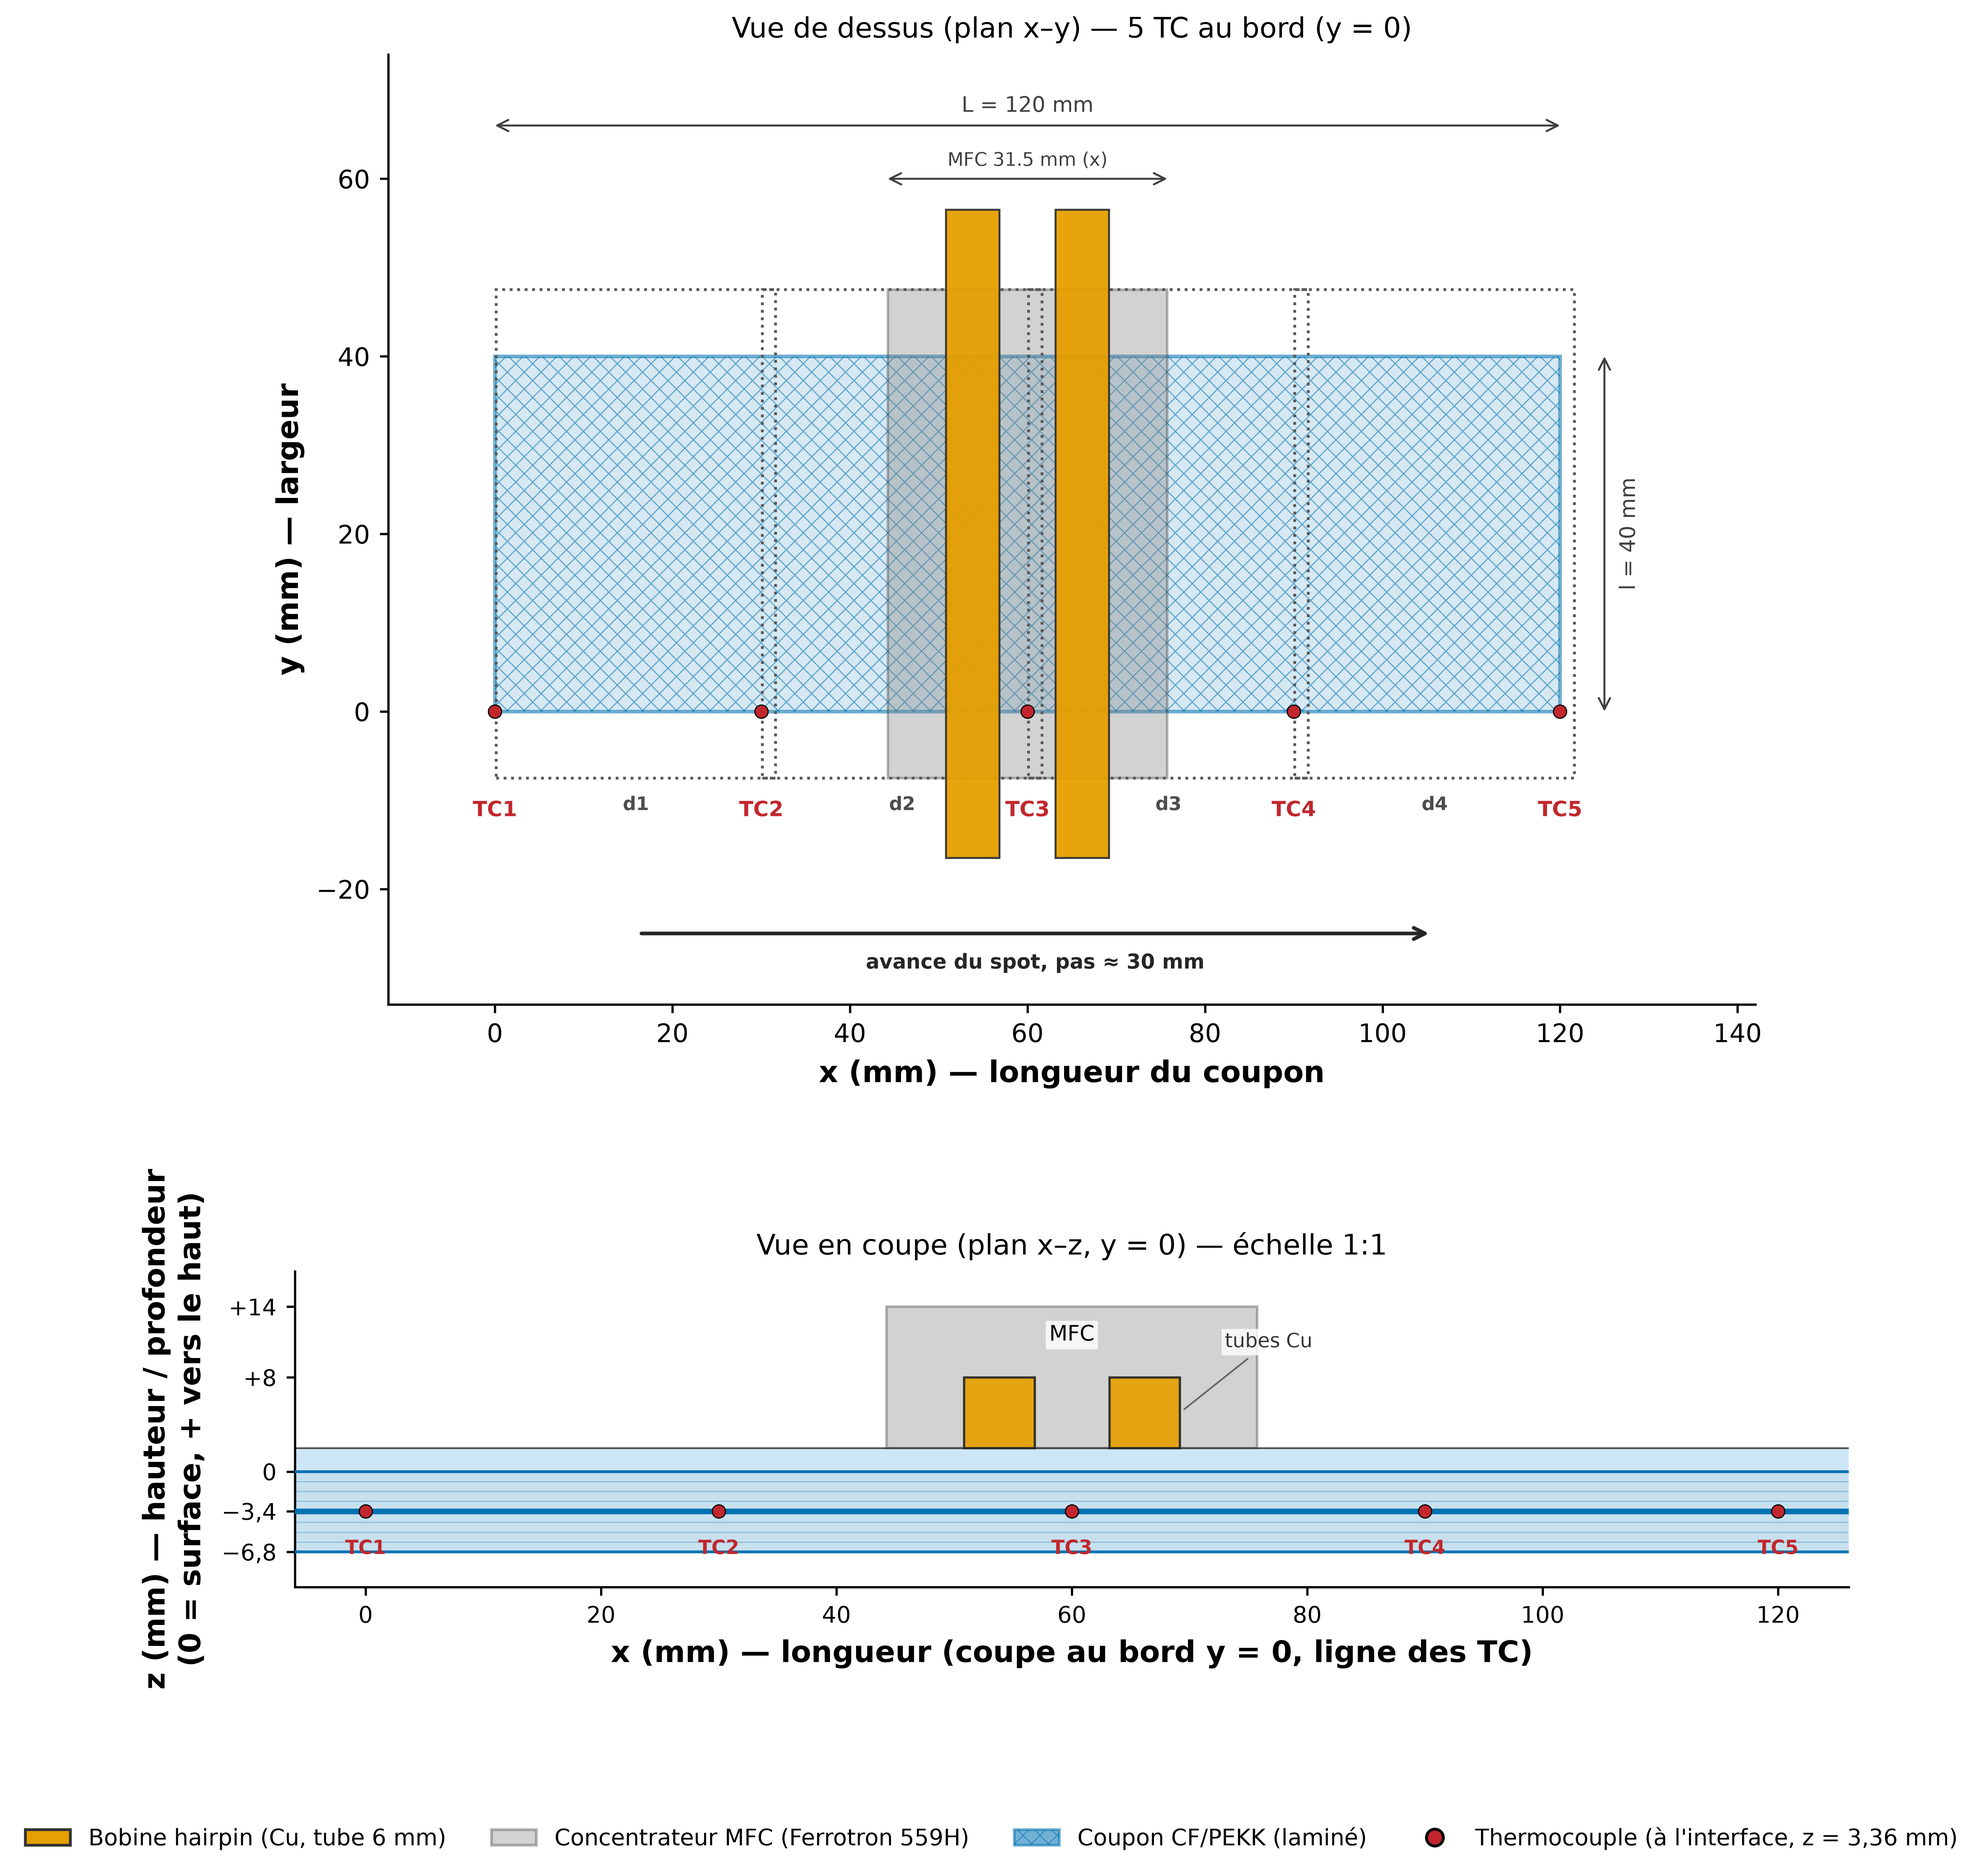
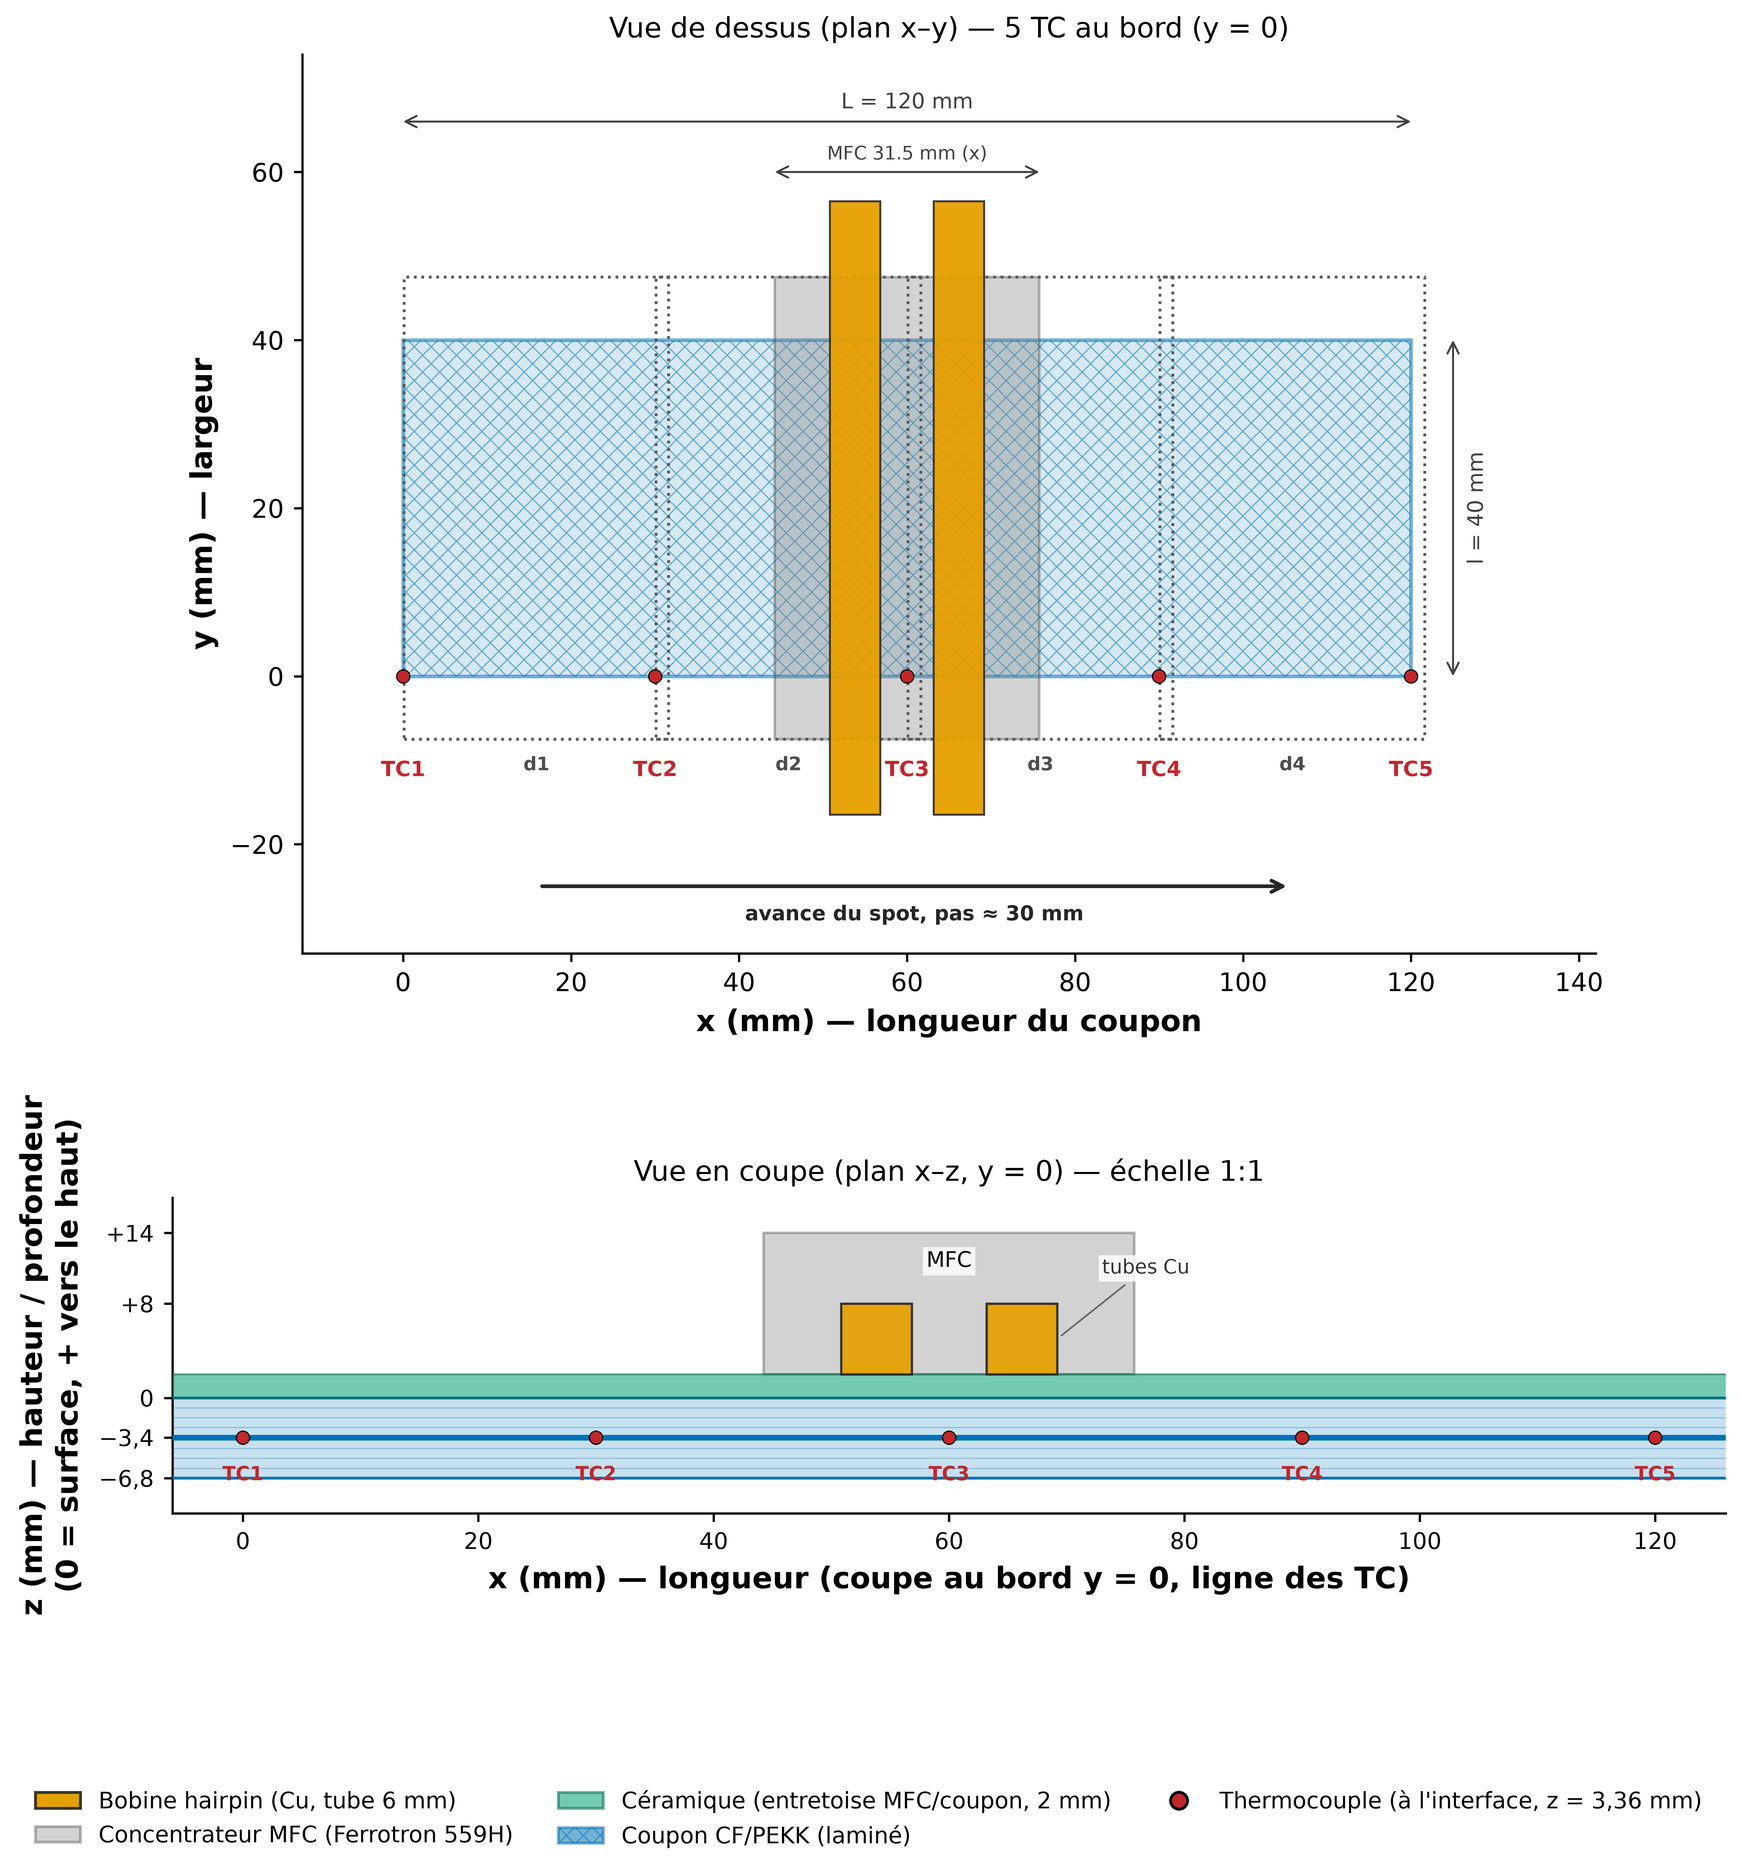
Montages : céramique (entretoise MFC/coupon) en couleur distincte + légende
La céramique z=0..+2 mm (entretoise entre le MFC/tubes et le coupon) passe d'un
bleu clair confondu avec le coupon à un vert distinct (Okabe-Ito), et entre dans
la légende (5 entrées, 2 rangées). Vue en coupe uniquement, valeurs inchangées.

diff --git a/scripts/gen_schemas_montage.py b/scripts/gen_schemas_montage.py
@@ -41,7 +41,7 @@ C_COIL = "#E69F00"     # cuivre / bobine
 C_MFC = "#7F7F7F"      # gris / concentrateur (Magnetic Flux Concentrator)
 C_COUPON = "#0072B2"   # bleu / coupon-twill
 C_TC = "#C1272D"       # rouge / thermocouples
-C_CERAM = "#CDE6F5"    # bleu tres clair / ceramique
+C_CERAM = "#009E73"    # vert (Okabe-Ito) / céramique entretoise MFC-coupon
 C_FILM = "#EFEFEF"     # gris tres clair / film PEKK
 
 BOXPROPS = dict(facecolor="white", alpha=0.82, edgecolor="none", pad=1.2)
@@ -160,6 +160,7 @@ def tc_marker(ax, x, y, label, dxlab=0, dylab=2.6, fs=7.4, ha="center", va="bott
 LEGEND_HANDLES = [
     Rectangle((0, 0), 1, 1, facecolor=C_COIL, edgecolor="0.2", label="Bobine hairpin (Cu, tube 6 mm)"),
     Rectangle((0, 0), 1, 1, facecolor=C_MFC, edgecolor="0.2", alpha=0.35, label="Concentrateur MFC (Ferrotron 559H)"),
+    Rectangle((0, 0), 1, 1, facecolor=C_CERAM, edgecolor="#00654A", alpha=0.55, label="Céramique (entretoise MFC/coupon, 2 mm)"),
     Rectangle((0, 0), 1, 1, facecolor=C_COUPON, edgecolor=C_COUPON, alpha=0.55,
               hatch="xxxx", label="Coupon CF/PEKK (laminé)"),
     Line2D([0], [0], marker="o", color="none", markerfacecolor=C_TC, markeredgecolor="black",
@@ -202,9 +203,9 @@ def draw_stack_1to1(ax, a, b, interface_label=True):
         ax.plot([a, b], [z_sup, z_sup], color=C_COUPON, alpha=0.30, lw=0.4, zorder=3)
         z_inf = H_FILM_BOT + (H_COUPON_BOT - H_FILM_BOT) * k / 4.0
         ax.plot([a, b], [z_inf, z_inf], color=C_COUPON, alpha=0.30, lw=0.4, zorder=3)
-    # ceramique 0 -> +2
-    rect(ax, a, 0.0, b - a, H_CERAM_TOP, facecolor=C_CERAM, edgecolor="0.3",
-         linewidth=0.6, zorder=2)
+    # ceramique 0 -> +2 (entretoise entre coupon et MFC/tubes, couleur distincte)
+    rect(ax, a, 0.0, b - a, H_CERAM_TOP, facecolor=C_CERAM, alpha=0.55,
+         edgecolor="#00654A", linewidth=0.7, zorder=5)
     # contours
     rect(ax, a, H_COUPON_BOT, b - a, -H_COUPON_BOT, facecolor="none", edgecolor=C_COUPON,
          linewidth=1.0, zorder=4)
@@ -228,7 +229,7 @@ def coupe_axis_cosmetics(ax):
 def make_exp7():
     fig = plt.figure(figsize=(8.4, 9.8))
     gs = fig.add_gridspec(2, 1, height_ratios=[1.55, 1.0], hspace=0.30,
-                          top=0.955, bottom=0.07, left=0.12, right=0.97)
+                          top=0.955, bottom=0.125, left=0.12, right=0.97)
     ax1 = fig.add_subplot(gs[0])
     ax2 = fig.add_subplot(gs[1])
 
@@ -306,7 +307,7 @@ def make_exp7():
     ax2.set_title("Vue en coupe (plan y–z, x = 60 mm) — échelle 1:1", fontsize=10)
     coupe_axis_cosmetics(ax2)
 
-    fig.legend(handles=LEGEND_HANDLES, loc="lower center", ncol=4, frameon=False,
+    fig.legend(handles=LEGEND_HANDLES, loc="lower center", ncol=3, frameon=False,
                bbox_to_anchor=(0.5, 0.005), fontsize=8.0)
 
     savefig(fig, OUT / "schema_montage_exp7.png")
@@ -319,7 +320,7 @@ def make_exp7():
 def make_exp9():
     fig = plt.figure(figsize=(8.8, 9.4))
     gs = fig.add_gridspec(2, 1, height_ratios=[1.5, 0.72], hspace=0.28,
-                          top=0.955, bottom=0.115, left=0.11, right=0.98)
+                          top=0.955, bottom=0.16, left=0.11, right=0.98)
     ax1 = fig.add_subplot(gs[0])
     ax2 = fig.add_subplot(gs[1])
 
@@ -396,8 +397,8 @@ def make_exp9():
     ax2.set_title("Vue en coupe (plan x–z, y = 0) — échelle 1:1", fontsize=10)
     coupe_axis_cosmetics(ax2)
 
-    fig.legend(handles=LEGEND_HANDLES, loc="lower center", ncol=4, frameon=False,
-               bbox_to_anchor=(0.5, 0.003), fontsize=8.0)
+    fig.legend(handles=LEGEND_HANDLES, loc="lower center", ncol=3, frameon=False,
+               bbox_to_anchor=(0.5, 0.004), fontsize=8.0)
 
     savefig(fig, OUT / "schema_montage_exp9.png")
     plt.close(fig)
